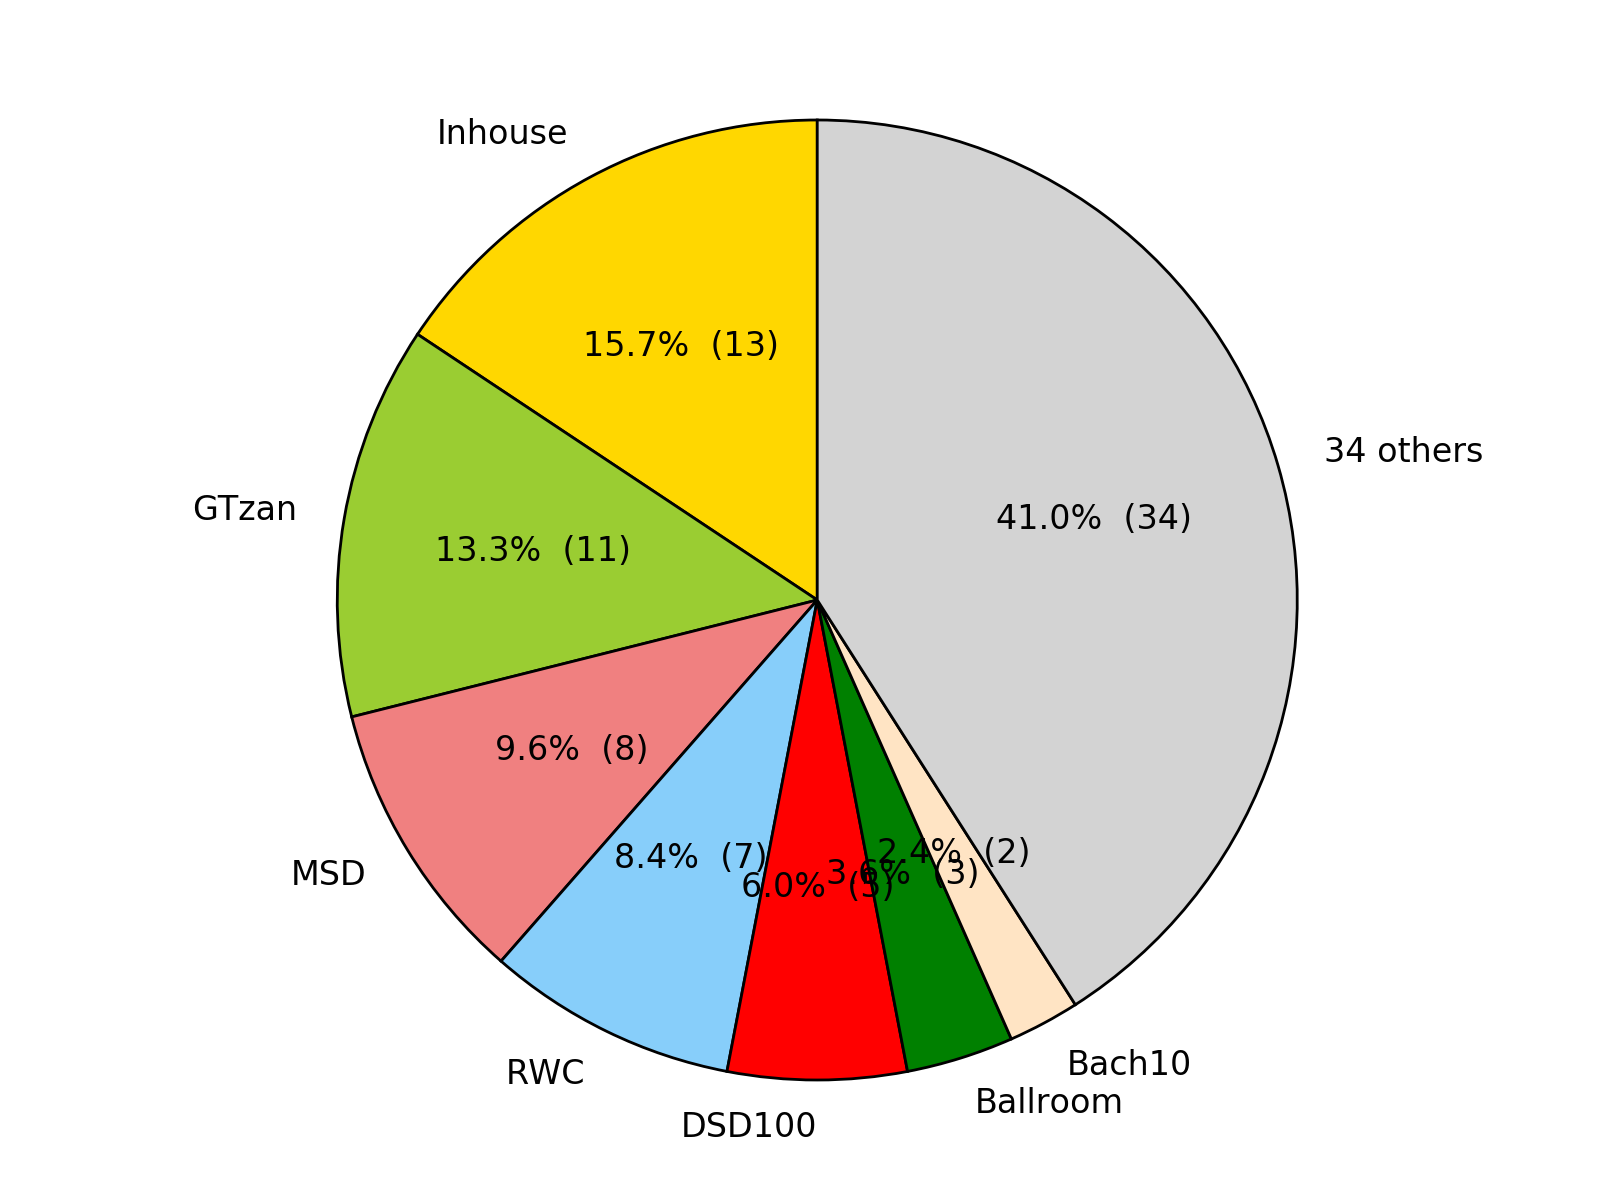
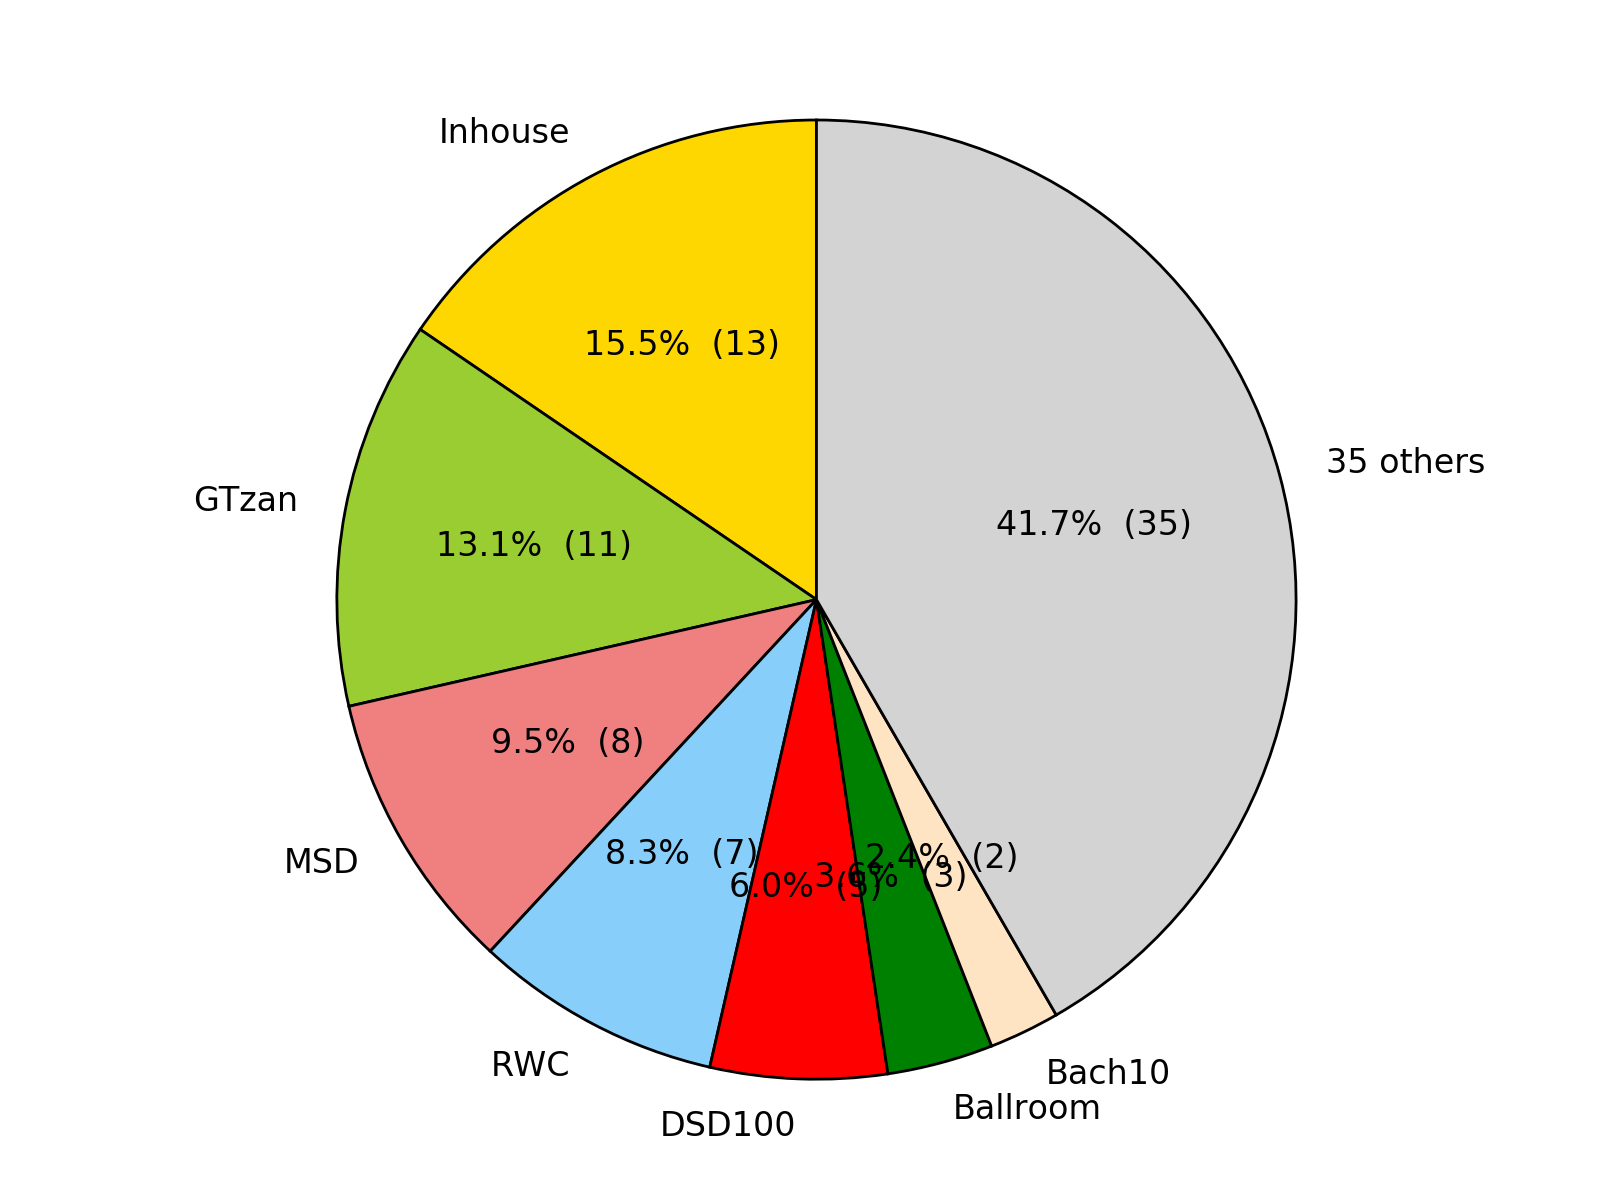
add maestro dataset PR #13

diff --git a/README.md b/README.md
@@ -195,6 +195,7 @@ However, these surveys do not cover music information retrieval tasks that are i
 | 2018 | [MuseGAN: Multi-track sequential generative adversarial networks for symbolic music generation and accompaniment](https://arxiv.org/pdf/1709.06298.pdf) | [GitHub](https://github.com/salu133445/musegan) |
 | 2018 | [Music transformer: Generating music with long-term structure](https://arxiv.org/pdf/1809.04281.pdf) | No |
 | 2018 | [Music theory inspired policy gradient method for piano music transcription](https://nips2018creativity.github.io/doc/music_theory_inspired_policy_gradient.pdf) | No |
+| 2019 | [Enabling factorized piano music modeling and generation with the MAESTRO dataset](https://arxiv.org/abs/1810.12247) | No |
 | 2019 | [Generating Long Sequences with Sparse Transformers](https://arxiv.org/pdf/1904.10509.pdf) | [GitHub](https://github.com/openai/sparse_attention) |
 address = {Montreal, Canada} | [Music theory inspired policy gradient method for piano music transcription](https://nips2018creativity.github.io/doc/music_theory_inspired_policy_gradient.pdf) | No |
 reproducible = {No} | [Generating Long Sequences with Sparse Transformers](https://arxiv.org/pdf/1904.10509.pdf) | [GitHub](https://github.com/openai/sparse_attention) |
@@ -250,15 +251,15 @@ Each entry in [dl4m.bib](dl4m.bib) also displays additional information:
 
 ## Statistics and visualisations
 
-- 164 papers referenced. See the details in [dl4m.bib](dl4m.bib).
+- 165 papers referenced. See the details in [dl4m.bib](dl4m.bib).
 There are more papers from 2017 than any other years combined.
 Number of articles per year:
 ![Number of articles per year](fig/articles_per_year.png)
-- If you are applying DL to music, there are [352 other researchers](authors.md) in your field.
+- If you are applying DL to music, there are [356 other researchers](authors.md) in your field.
 - 34 tasks investigated. See the list of [tasks](tasks.md).
 Tasks pie chart:
 ![Tasks pie chart](fig/pie_chart_task.png)
-- 52 datasets used. See the list of [datasets](datasets.md).
+- 53 datasets used. See the list of [datasets](datasets.md).
 Datasets pie chart:
 ![Datasets pie chart](fig/pie_chart_dataset.png)
 - 30 architectures used. See the list of [architectures](architectures.md).
@@ -321,6 +322,7 @@ The list of conferences, journals and aggregators used to gather the proposed ma
 - [Jordi Pons](http://www.jordipons.me/) ([GitHub](https://github.com/jordipons))
 - Mirza Zulfan ([GitHub](https://github.com/mirzazulfan)) for the logo
 - [Devin Walters](https://github.com/devn)
+- https://github.com/LegendJ
 
 [Go back to top](https://github.com/ybayle/awesome-deep-learning-music#deep-learning-for-music-dl4m-)
 

diff --git a/CONTRIBUTING.md b/CONTRIBUTING.md
@@ -9,11 +9,11 @@ You can look at the issues and help to solve them or you can add some missing ar
 Here are the steps to follow for adding one (or multiple) article:
 1. Check that the article is not already in the [dl4m.bib](dl4m.bib) file.
 2. Fork the repo.
-3. Add the desired bib entry at the beginning of [dl4m.bib](dl4m.bib). Take care to fill all this field for each bib entry:
-    - Bib entry type (inproceedings, article, techreport, unpublished,...)
+3. Add the desired bib entry at the beginning of [dl4m.bib](dl4m.bib). Take care to fill all this field for each bib entry (if there is no information about a field please indicate it as `fieldName = {No}`):
+    - Bib entry type (inproceedings, article, techreport, unpublished,...) (N.B.: Indicate arxiv article as @unpublished and if you know of a possible submission use `note = {Submitted to "NameOfJournalOrConference"}`)
     - Bib key (in the form AuthorlastnameYear, e.g. `Snow1999`
-    - title
-    - author
+    - title (N.B.: Make sure the title is not written in all caps and that each word does not start with a capital letter.)
+    - author (N.B.: Check that all authors in the pdf files are present in the bib author field and in the same order. Indeed automatic bib tools tend to mess up the order or to forget some authors.)
     - year
     - booktitle or journal
     - dataset (e.g. `dataset = {Inhouse & [Jamendo](http://www.mathieuramona.com/wp/data/jamendo/) & [RWC](https://staff.aist.go.jp/m.goto/RWC-MDB/)},`)

diff --git a/datasets.md b/datasets.md
@@ -34,6 +34,7 @@ Please refer to the list of useful acronyms used in deep learning and music: [ac
 - [Lakh Pianoroll Datase](https://github.com/salu133445/musegan/blob/master/docs/dataset.md)
 - [Last.fm](https://www.last.fm/)
 - [LyricFind](http://lyricfind.com/)
+- [MAESTRO](https://magenta.tensorflow.org/datasets/maestro/)
 - [MAPS](http://www.tsi.telecom-paristech.fr/aao/en/2010/07/08/maps-database-a-piano-database-for-multipitch-estimation-and-automatic-transcription-of-music/)
 - [MIR-1K](https://sites.google.com/site/unvoicedsoundseparation/mir-1k)
 - [MSD](https://labrosa.ee.columbia.edu/millionsong/)

diff --git a/authors.md b/authors.md
@@ -62,6 +62,8 @@
 - Eck, Douglas
 - Ehmann, Andreas F.
 - Ellis, Daniel P. W.
+- Elsen, Erich
+- Engel, Jesse
 - Evangelopoulos, Georgios
 - Ewert, Sebastian
 - Fan, Zhe-Cheng
@@ -246,6 +248,7 @@
 - Richard, Gaël
 - Riedmiller, Martin
 - Rigaud, François
+- Roberts, Adam
 - Robinson, John
 - Roma, Gerard
 - Rosasco, Lorenzo
@@ -281,6 +284,7 @@
 - Southall, Carl
 - Stables, Ryan
 - Stasiak, Bartłomiej
+- Stasyuk, Andriy
 - Stoller, Daniel
 - Sturm, Bob L.
 - Su, Hong
